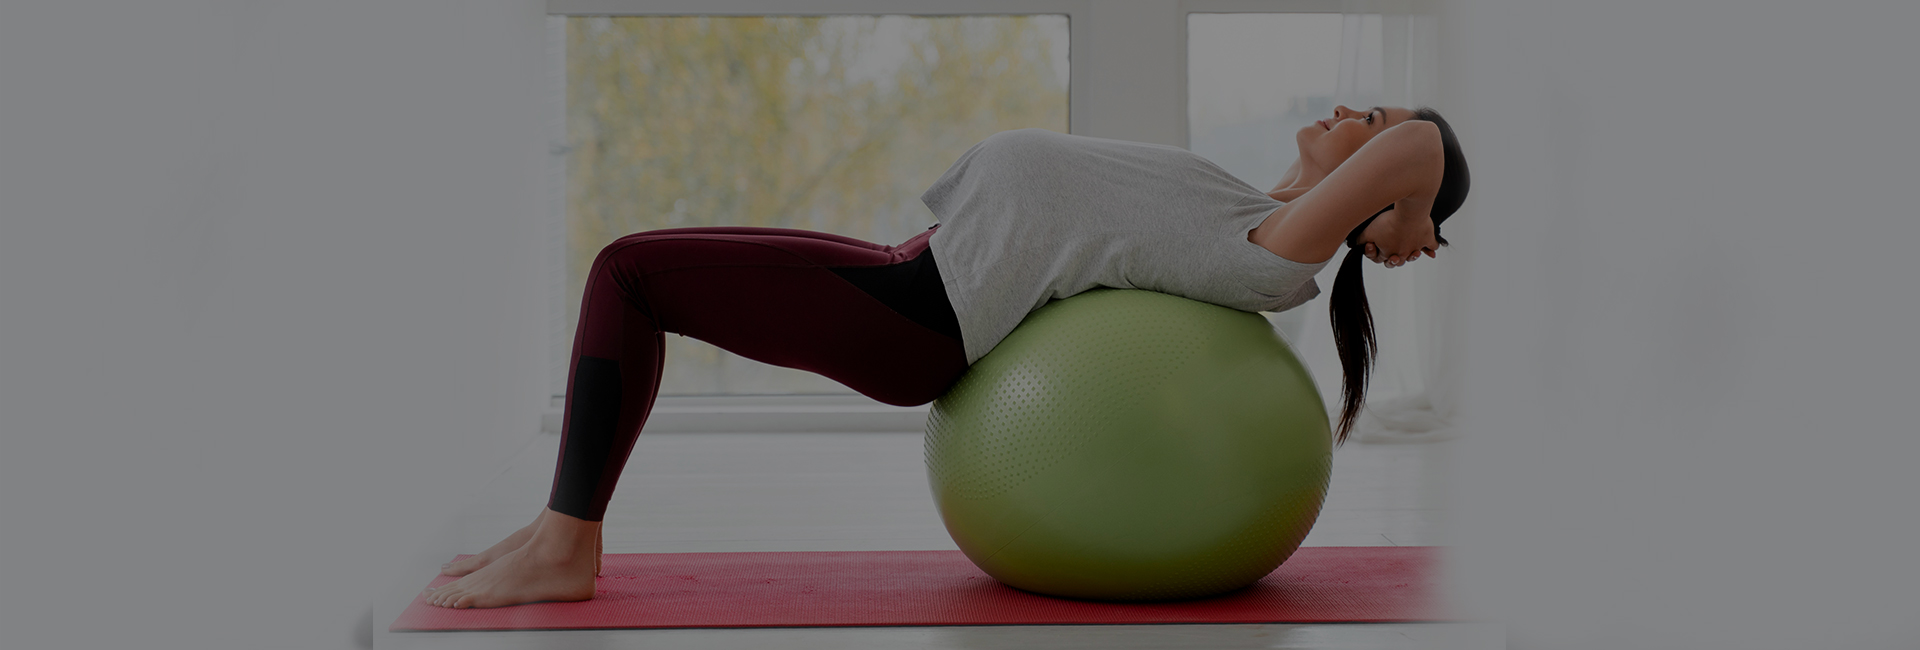
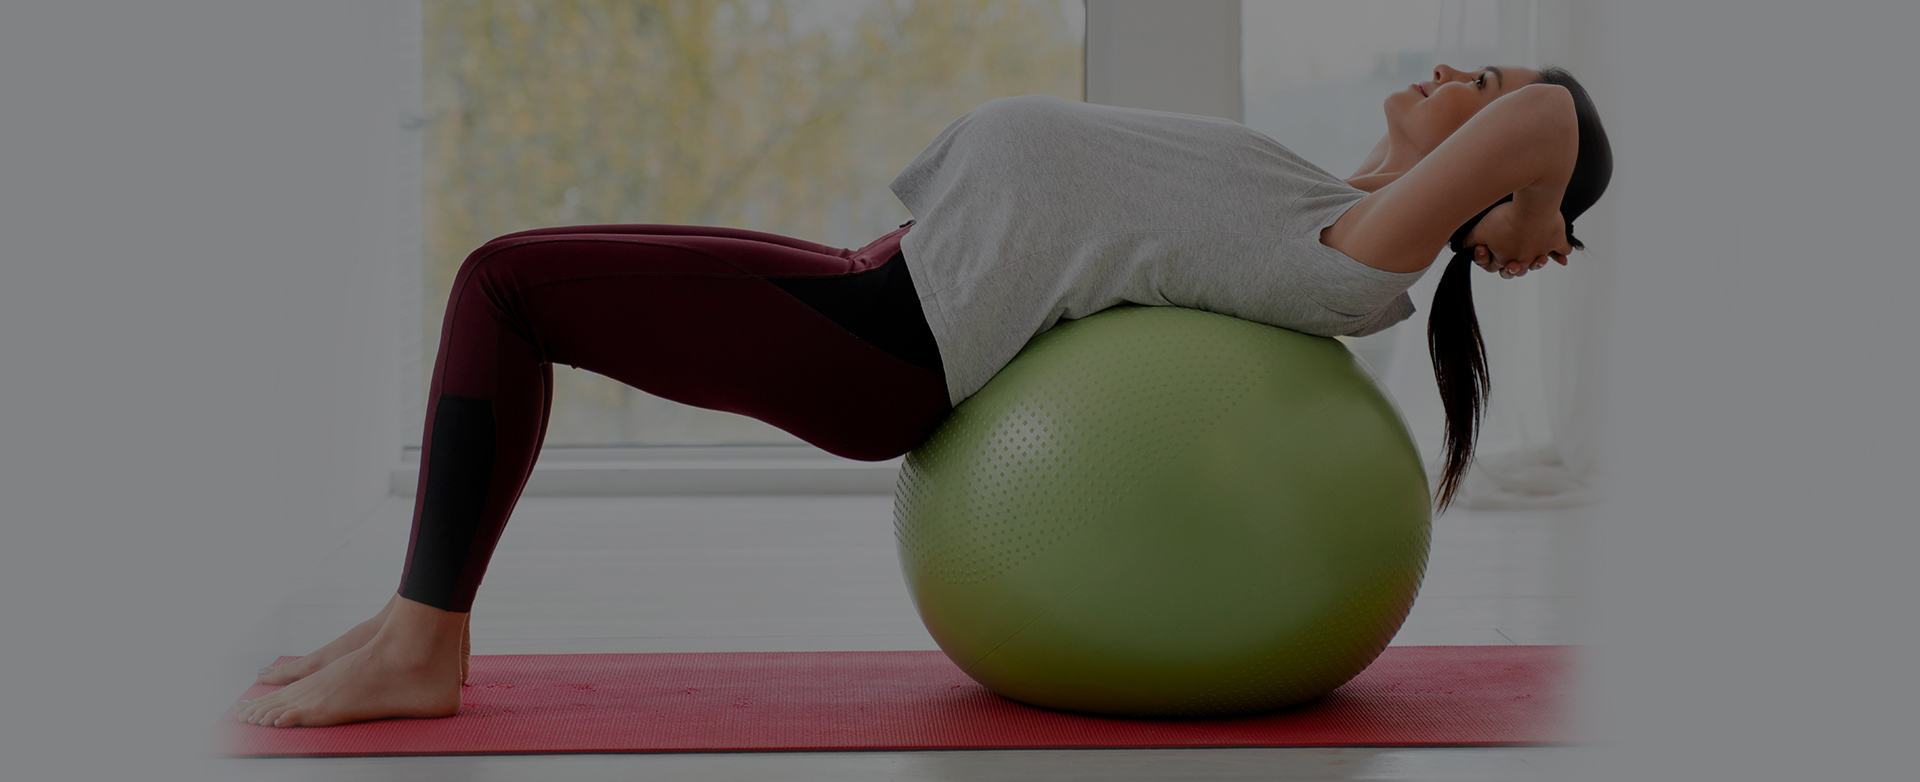
all changes done

diff --git a/src/components/Dropdown/Dropdown.jsx b/src/components/Dropdown/Dropdown.jsx
@@ -14,7 +14,7 @@ function Dropdown({setdropdownValue,dropdownValue}) {
     return (
         <div className="dropdown__select" style={{borderBottom: "1px solid #cbcbcb"}}>
             <div className="dropdown__form-group" onClick={() => setDropdownToggle(prevState => !prevState)}>
-                <input type="text" className="dropdown__input" value={dropdownValue} disabled placeholder="Job Role" />
+                <input type="text" className="dropdown__input" value={dropdownValue} disabled placeholder="Program interested in" />
                 <div className={`arrow ${dropdownToggle ? 'arrow--rotate':''}`}>
                     <svg width="10" height="10" viewBox="0 0 39 23" fill="none">
                         <path fillRule="evenodd" clipRule="evenodd" d="M1.00386 0.806505C1.25887 0.555802 1.56084 0.35787 1.89247 0.22405C2.22409 0.0902293 2.57887 0.0231516 2.93646 0.0266518C3.29405 0.030152 3.64744 0.104161 3.97638 0.244448C4.30533 0.384734 4.60336 0.588538 4.85342 0.844186L19.0995 15.3774L33.6273 1.12583C33.8825 0.875538 34.1846 0.67797 34.5162 0.544406C34.8478 0.410843 35.2024 0.343898 35.5599 0.347397C35.9173 0.350896 36.2706 0.42477 36.5995 0.564799C36.9285 0.704827 37.2266 0.90827 37.4769 1.16351C37.7272 1.41875 37.9247 1.72079 38.0583 2.05238C38.1918 2.38398 38.2588 2.73863 38.2553 3.0961C38.2518 3.45356 38.1779 3.80684 38.0379 4.13575C37.8979 4.46467 37.6944 4.76278 37.4392 5.01308L20.9678 21.1651C20.7128 21.4158 20.4108 21.6138 20.0792 21.7476C19.7476 21.8814 19.3928 21.9485 19.0352 21.945C18.6776 21.9415 18.3242 21.8675 17.9953 21.7272C17.6663 21.5869 17.3683 21.3831 17.1182 21.1275L0.966176 4.65607C0.715473 4.40106 0.517543 4.09909 0.383722 3.76746C0.249901 3.43583 0.18282 3.08106 0.18632 2.72347C0.18982 2.36588 0.263833 2.01249 0.40412 1.68354C0.544406 1.3546 0.748209 1.05656 1.00386 0.806505V0.806505Z" fill="#7ccdce"/>
@@ -22,12 +22,10 @@ function Dropdown({setdropdownValue,dropdownValue}) {
                 </div>
             </div>
             <div className={`dropdown__options ${dropdownToggle ? 'dropdown__options--show':''}`} onClick={onDropdownData}>
-                <div className="dropdown__option" data-value="Content">Content</div>
-                <div className="dropdown__option" data-value="Creative">Creative</div>
-                <div className="dropdown__option" data-value="SEO">SEO</div>
-                <div className="dropdown__option" data-value="Social Media">Social Media</div>
-                <div className="dropdown__option" data-value="Development">Developer</div>
-                <div className="dropdown__option" data-value="Other">Other</div>
+                <div className="dropdown__option" data-value="Baby-ready">Baby-ready</div>
+                <div className="dropdown__option" data-value="Mumma Strong">Mumma Strong</div>
+                <div className="dropdown__option" data-value="Everything Labor">Everything Labor</div>
+                <div className="dropdown__option" data-value="Bounce Back">Bounce Back</div>
             </div>
         </div>
     )

diff --git a/src/components/Footer/Footer.jsx b/src/components/Footer/Footer.jsx
@@ -16,20 +16,20 @@ const Footer = () => {
 
                             <ul className="footer__nav">
                                 <li className="footer__item footer__item--icon">
-                                    <a href="https://instagram.com/gosociobutterfly?igshid=1x6vyl7dz6e6h" target="_blank" rel="noreferrer" className="footer__link">
+                                    <a href="https://instagram.com/bumpup_?igshid=1wgiggwhfvg7h" target="_blank" rel="noreferrer" className="footer__link">
                                         <Instagram width="1rem" height="1rem" fill="#fff" />
                                     </a>
                                 </li>
                                 <li className="footer__item footer__item--icon">
-                                    <a href="https://www.facebook.com/gosociobutterfly" target="_blank" rel="noreferrer" className="footer__link">
+                                    <a href="https://www.facebook.com/Bump-up-111933150718570/" target="_blank" rel="noreferrer" className="footer__link">
                                         <Facebook width="1rem" height="1rem" fill="#fff" />
                                     </a>
                                 </li>
-                                <li className="footer__item footer__item--icon">
+                                {/* <li className="footer__item footer__item--icon">
                                     <a href="https://www.linkedin.com/company/go-socialbutterfly" target="_blank" rel="noreferrer" className="footer__link">
                                         <Linkedin width="1rem" height="1rem" fill="#fff" />
                                     </a>
-                                </li>
+                                </li> */}
                             </ul>
                         </div>
                     </div>

diff --git a/src/pages/whybumpup.js b/src/pages/whybumpup.js
@@ -4,7 +4,7 @@ import About from '../components/About/About'
 
 
 import HomeBanner from './../static/img/bumphome.jpg'
-import HomeMobile from './../static/img/bumphome.jpg'
+import HomeMobile from './../static/img/bumpupMobile.jpg'
 
 import Navbar from '../components/Navbar/Navbar';
 import NavbarMobile from '../components/Navbar/NavbarMobile'
@@ -12,8 +12,8 @@ import NavbarMobile from '../components/Navbar/NavbarMobile'
 function Home() {
   return (
     <div className="App">
-            <Navbar class4="navbar-list-active" isSecondary={true} />
-            <NavbarMobile isSecondary={true} />
+            <Navbar class4="navbar-list-active" isSecondary={false} />
+            <NavbarMobile isSecondary={false} />
             <Carousel images={HomeBanner} altText="Hero" 
                 imagesMobile={HomeMobile} />
             <About />

diff --git a/src/components/Navbar/Navbar.jsx b/src/components/Navbar/Navbar.jsx
@@ -26,7 +26,7 @@ import {ReactComponent as Bumpup} from '../../static/img/Bump.svg'
 
 // export default Navbar
 
-import React , { useState } from 'react'
+import React , { useState, useEffect } from 'react'
 import { Link } from "react-router-dom";
 
 function Navbar({isSecondary,class1="navbar-list", class2="navbar-list", class3="navbar-list",class4="navbar-list",color='#fff'}){
@@ -41,7 +41,12 @@ function Navbar({isSecondary,class1="navbar-list", class2="navbar-list", class3=
         }
     }
 
-    window.addEventListener('scroll', changeBackground)
+    useEffect(() => {
+        window.addEventListener('scroll', changeBackground)
+        return () => {
+            window.removeEventListener('scroll', changeBackground)
+        }
+    }, [])
 
     return(
 

diff --git a/src/components/Navbar/NavbarMobile.jsx b/src/components/Navbar/NavbarMobile.jsx
@@ -1,4 +1,4 @@
-import React,{useState} from 'react'
+import React,{useState, useEffect} from 'react'
 import { Link } from "react-router-dom";
 import {ReactComponent as Bumpup} from '../../static/img/Bump.svg'
 
@@ -16,7 +16,14 @@ const NavbarMobile = ({isSecondary}) => {
         }
     }
 
-    window.addEventListener('scroll', scrollBackground)
+    useEffect(() => {
+        window.addEventListener('scroll', scrollBackground)
+        return () => {
+            window.removeEventListener('scroll', scrollBackground)
+        }
+    }, [])
+
+    
 
     return (
         <nav className={`${collapse ? 'navbar-mobile mobile navbar-mobile--white': 'navbar-mobile mobile'}`} style={{background: `${ navbar ? '#fff' : 'transparent'}`}}>

diff --git a/src/static/css/components/Footer/_footer.scss b/src/static/css/components/Footer/_footer.scss
@@ -3,9 +3,14 @@
     padding: 2rem 0;
     margin-bottom: 0%;
     &__wrapper {
-        display: grid;
-        grid-template-columns: 1fr 1fr;
+        display: flex;
+        flex-direction: column;
+        justify-content: space-around;
         width: 100%;
+
+        @media (min-width: 768px) {
+            flex-direction: row;
+        }
         
         @include respond(tab-port) { // width < 900?
             grid-row-gap: 1rem;

diff --git a/src/static/css/components/Contact/Contact.scss b/src/static/css/components/Contact/Contact.scss
@@ -1,6 +1,9 @@
 .enquiry {
     // margin: 5rem 0;
-    padding: 5rem 0;
+    // padding: 5rem 0;
+    display: flex;
+    align-items: center;
+    justify-content: center;
     margin-bottom: 0;
     background: #f5f5f5;
     min-height:90vh;

diff --git a/src/static/css/components/Carousel/_carousel.scss b/src/static/css/components/Carousel/_carousel.scss
@@ -18,7 +18,7 @@
         font-family: 'Hearth Stone', sans-serif;
         font-weight: 300;
         margin: 0 auto;
-        margin-bottom: 1rem;
+        margin-bottom: 3rem;
         line-height: 1.3;
         font-size: 5rem;
         

diff --git a/src/static/css/components/Offer/_offer-page.scss b/src/static/css/components/Offer/_offer-page.scss
@@ -1,7 +1,7 @@
 .offer-page {
     overflow: hidden;
     position: relative;
-    padding: 10rem 0;
+    padding: 12rem 0;
 
     &__container {
         @media (min-width: 768px) {
